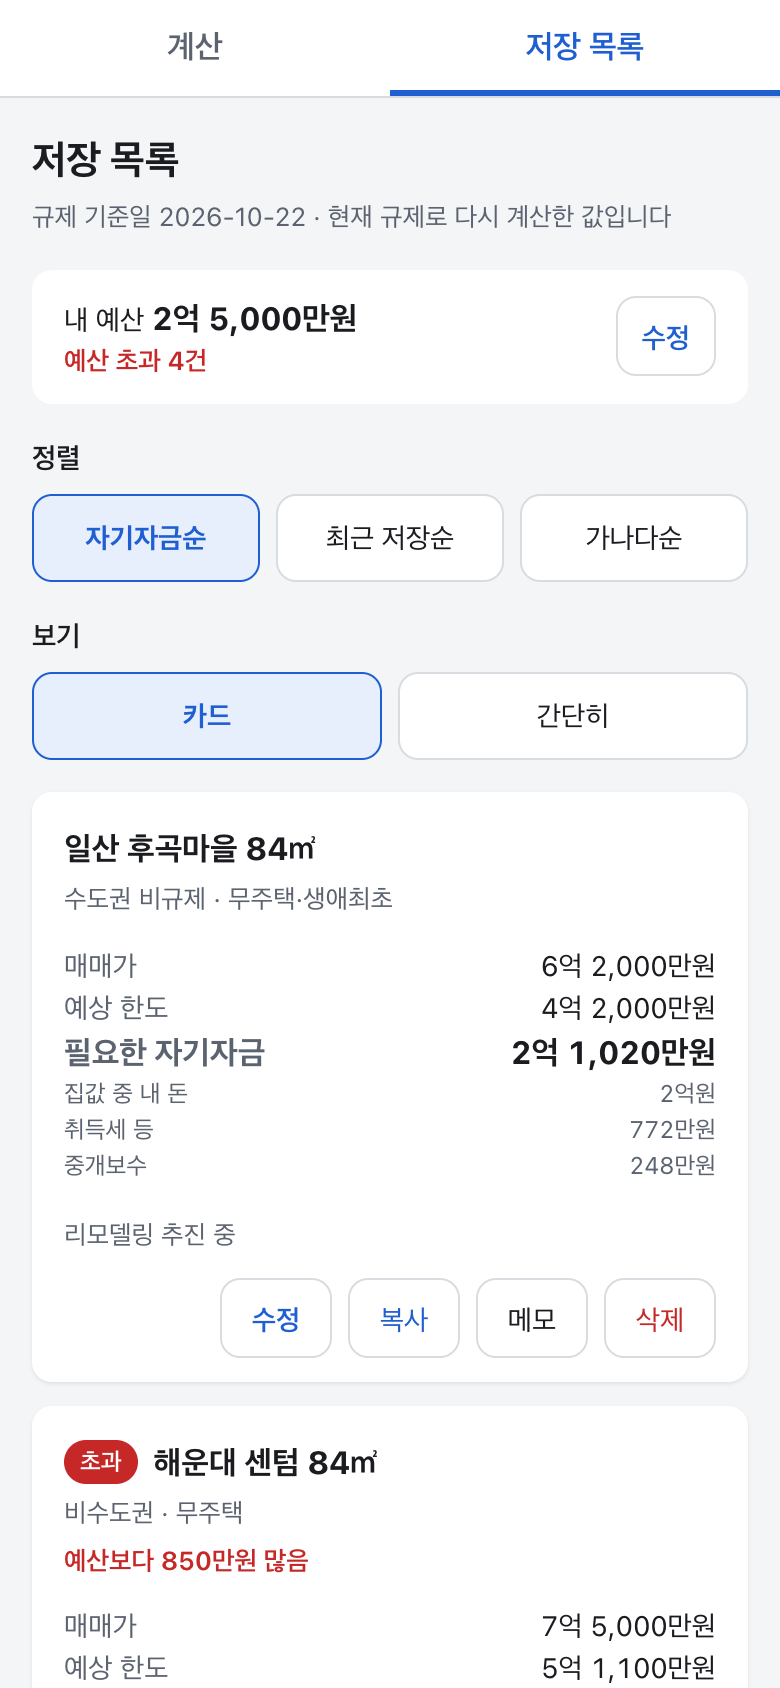
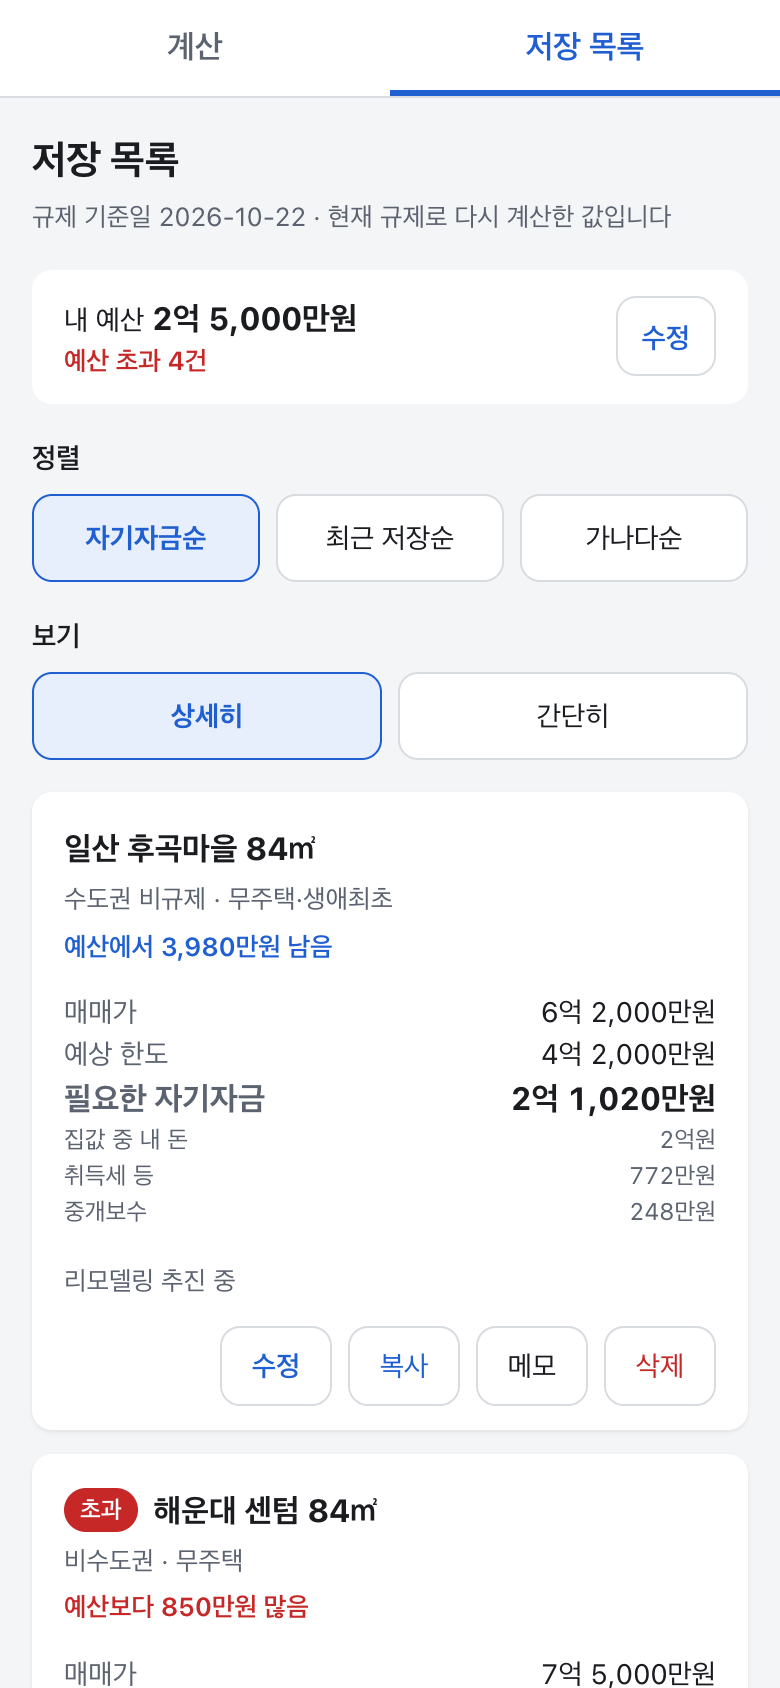
docs: README 저장 목록 사진을 상세히·펼침 화면으로 교체 (#14)
- 03: 상세히 보기와 예산 남음 표시
- 04: 간단히 보기에서 줄을 펼친 모습
- 저장 목록·내 예산 설명을 바뀐 동작에 맞춤

diff --git a/README.md b/README.md
@@ -10,10 +10,10 @@
   <tr>
     <td align="center"><img src="docs/screenshots/01-calculator.png" width="240" alt="계산 화면: 매매가, KB시세, 기준 금액 입력" /><br />계산 입력</td>
     <td align="center"><img src="docs/screenshots/02-result.png" width="240" alt="결과 카드: 예상 한도, 집값 중 내 돈, 취득세 등, 중개보수, 필요한 자기자금" /><br />계산 결과</td>
-    <td align="center"><img src="docs/screenshots/03-listings.png" width="240" alt="저장 목록 카드 보기: 내 예산과 초과 배지, 메모" /><br />저장 목록</td>
+    <td align="center"><img src="docs/screenshots/03-listings.png" width="240" alt="저장 목록 상세히 보기: 내 예산, 예산 남음과 초과, 메모" /><br />저장 목록</td>
   </tr>
   <tr>
-    <td align="center"><img src="docs/screenshots/04-compact.png" width="240" alt="저장 목록 간단히 보기" /><br />간단히 보기</td>
+    <td align="center"><img src="docs/screenshots/04-compact.png" width="240" alt="저장 목록 간단히 보기: 줄을 눌러 상세 카드를 펼친 모습" /><br />간단히 보기</td>
     <td align="center"><img src="docs/screenshots/05-trades.png" width="240" alt="실거래가 시트: 서울 강남구 단지명 검색 결과" /><br />실거래가</td>
     <td align="center"><img src="docs/screenshots/06-screenshot-ocr.png" width="240" alt="스크린샷으로 채우기 미리보기" /><br />스크린샷으로 채우기</td>
   </tr>
@@ -26,8 +26,8 @@
 - **한도·자기자금 계산**: 매매가, KB시세, 주택 소재지, 보유 상태, 전용 85㎡ 초과 여부를 넣으면 예상 한도와 필요한 자기자금을 바로 보여 줍니다.
 - **LTV 선택**: 40%·70%·80% 칩, 직접 입력, 규제대로 중에서 고릅니다. 사용자 지정 LTV를 쓰면 규제 기준 LTV를 함께 보여 줍니다.
 - **KB시세 확인 링크**: KB시세는 자동으로 가져오지 않습니다. 링크로 KB부동산을 열어 확인한 뒤 입력합니다.
-- **저장 목록**: 계산한 매물을 이름과 메모를 붙여 저장하고 자기자금순·최근 저장순·가나다순으로 정렬합니다. 카드 보기와 간단히 보기를 오가며, 저장된 매물은 현재 규제로 다시 계산해 보여 줍니다.
-- **내 예산**: 예산을 입력하면 필요한 자기자금이 예산을 넘는 매물에 [초과]와 넘는 금액을 표시합니다.
+- **저장 목록**: 계산한 매물을 이름과 메모를 붙여 저장하고 자기자금순·최근 저장순·가나다순으로 정렬합니다. 상세히 보기와 간단히 보기를 오가고, 간단히 보기에서는 줄을 눌러 상세 카드를 펼치고 접습니다. 저장된 매물은 현재 규제로 다시 계산해 보여 줍니다.
+- **내 예산**: 예산을 입력하면 필요한 자기자금이 예산을 넘는 매물에는 [초과]와 넘는 금액을 빨간색으로, 예산 안인 매물에는 남는 금액을 파란색으로 표시합니다.
 - **스크린샷으로 채우기**: 네이버부동산 매물 상세 화면 캡처를 올리면 매매가, 단지명, 면적을 읽어 미리 보여 주고, [적용]을 눌러야 입력에 반영합니다.
 - **실거래가 보기**: 시군구와 단지명으로 국토교통부 아파트 매매 실거래가(최근 3개월)를 조회합니다. KB시세가 아니며 계산에 반영하지 않습니다.
 

diff --git a/.cony/log.md b/.cony/log.md
@@ -260,3 +260,7 @@
 - 요청: 저장 목록 보기 [카드] → [상세히]로 이름 변경
 - 요청: 간단히 보기에서 줄을 누르면 아래로 상세 카드가 펼쳐지고 다시 누르면 접힘(여러 줄 동시에 펼칠 수 있음). 펼친 카드에서 수정·복사·메모·삭제 그대로 사용
 - AI: 카드가 `<li>`를 직접 그리던 것을 `<article>`로 바꾸고 목록 쪽이 `<li>`로 감싼다(펼침 안에서도 같은 카드를 쓰려고). 기존 카드 테스트의 감싸는 마크업만 맞춤
+
+## README 사진 교체
+
+- 요청: 바뀐 화면에 맞춰 README 사진 교체 → 03(상세히 보기, 예산 남음 파란 글씨), 04(간단히 보기에서 첫 줄 펼친 모습)를 운영 주소에서 다시 캡처. 01·02·05·06은 바뀐 것이 없어 그대로

diff --git a/.cony/board.md b/.cony/board.md
@@ -1,6 +1,6 @@
 # LTV 70% 기본 · 취득세·중개보수 포함 자기자금 · 목록 수정·이름순
 
-> 상태: 진행 중 · 마지막 업데이트: 2026-10-22 16:06
+> 상태: 진행 중 · 마지막 업데이트: 2026-10-22 16:11
 
 ## 태스크
 
@@ -25,7 +25,7 @@
 
 ## 지금 하는 일
 
-상세히 이름 변경·간단히 펼침 PR CI 대기
+README 사진 교체 PR CI 대기
 
 ## 최근 결정
 
@@ -42,6 +42,6 @@
 
 ## PR
 
-[#10](https://github.com/hwanyoungChoi/mortgage-fit/pull/10)·[#11](https://github.com/hwanyoungChoi/mortgage-fit/pull/11)·[#12](https://github.com/hwanyoungChoi/mortgage-fit/pull/12) 머지
+[#13](https://github.com/hwanyoungChoi/mortgage-fit/pull/13) 머지
 
 <!-- spec: specs/fees-and-default-ltv.md -->
